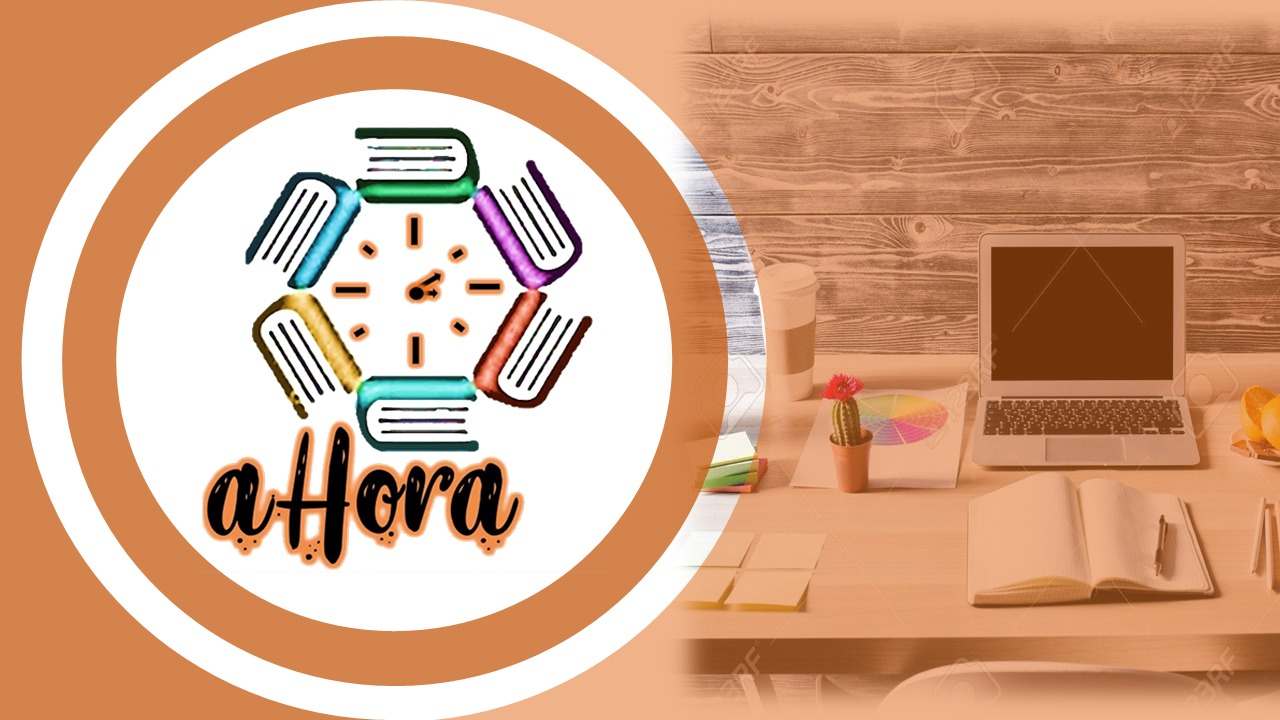
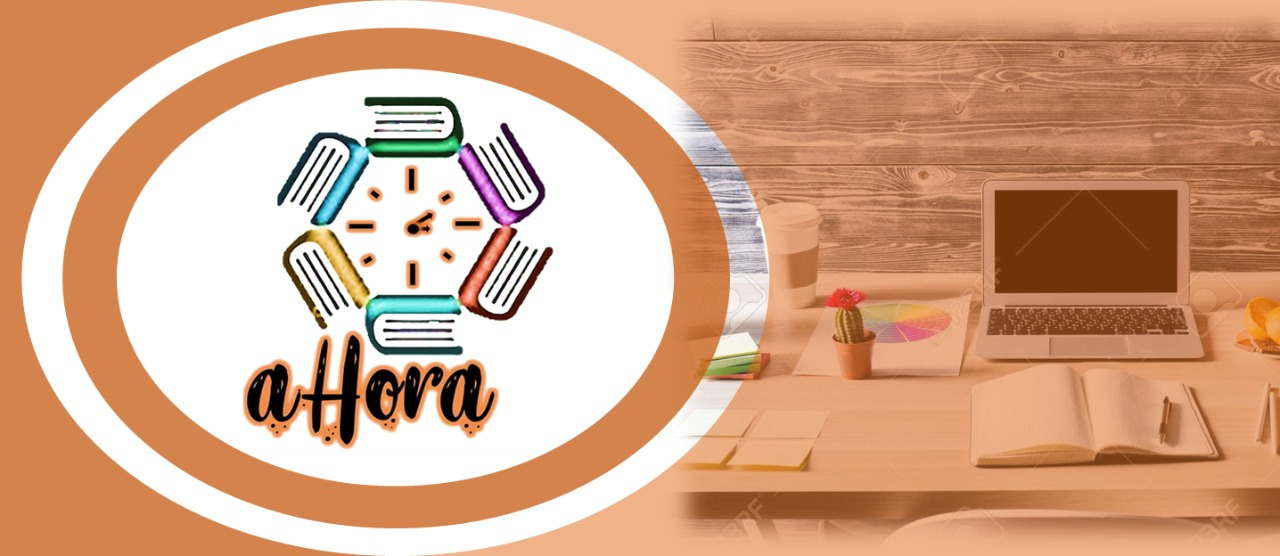
agregando fondos

diff --git a/vista/login.php b/vista/login.php
@@ -85,6 +85,12 @@ if (!empty($_POST['usuario']) && !empty($_POST['contraseña'])) {
 }
 ?>
 
+<style>
+    h1 { 
+        font-family:"Georgia";
+        src: url(donde este guardad/tufuente.ttf) format("truetype");
+        font-size: 50px; }
+</style>
 <!DOCTYPE html>
 <html>
     <head>
@@ -92,17 +98,17 @@ if (!empty($_POST['usuario']) && !empty($_POST['contraseña'])) {
         <title>Login</title>
         <link rel="stylesheet" href="./css/bootstrap.min.css">
     </head>
-    <body background = <?php echo $URL."/vista/fondoCuerpoLogin.jpg>"?>
+    <body background = <?php echo $URL."/vista/fondoCuerpoLogin.jpeg"?>>
         <?php if (!empty($message)): ?>
             <p> <?= $message ?></p>
         <?php endif; ?>       
         <div class="container">
             <br> <br>
             <form action="login.php" method="POST" class="form-horizontal">
-                <div class="row"> 
+               <div class="row"> 
                     <div class="col-md-4">
-                        <img src="partials\logo.png" title="aHora Sistemas de consultas educativas" style="background-color:transparent" class="img-thumbnail" >
-                    </div>
+                        <!-- <img src="partials\logo.png" title="aHora Sistemas de consultas educativas" style="background-color:transparent" class="img-thumbnail" >
+                    --></div>
                     <div class="col-md-8">
                         <div class="form-group">
                             <h1 for="login" class="text-primary col-md-4 col-md-offset-4"> Login </h1>
